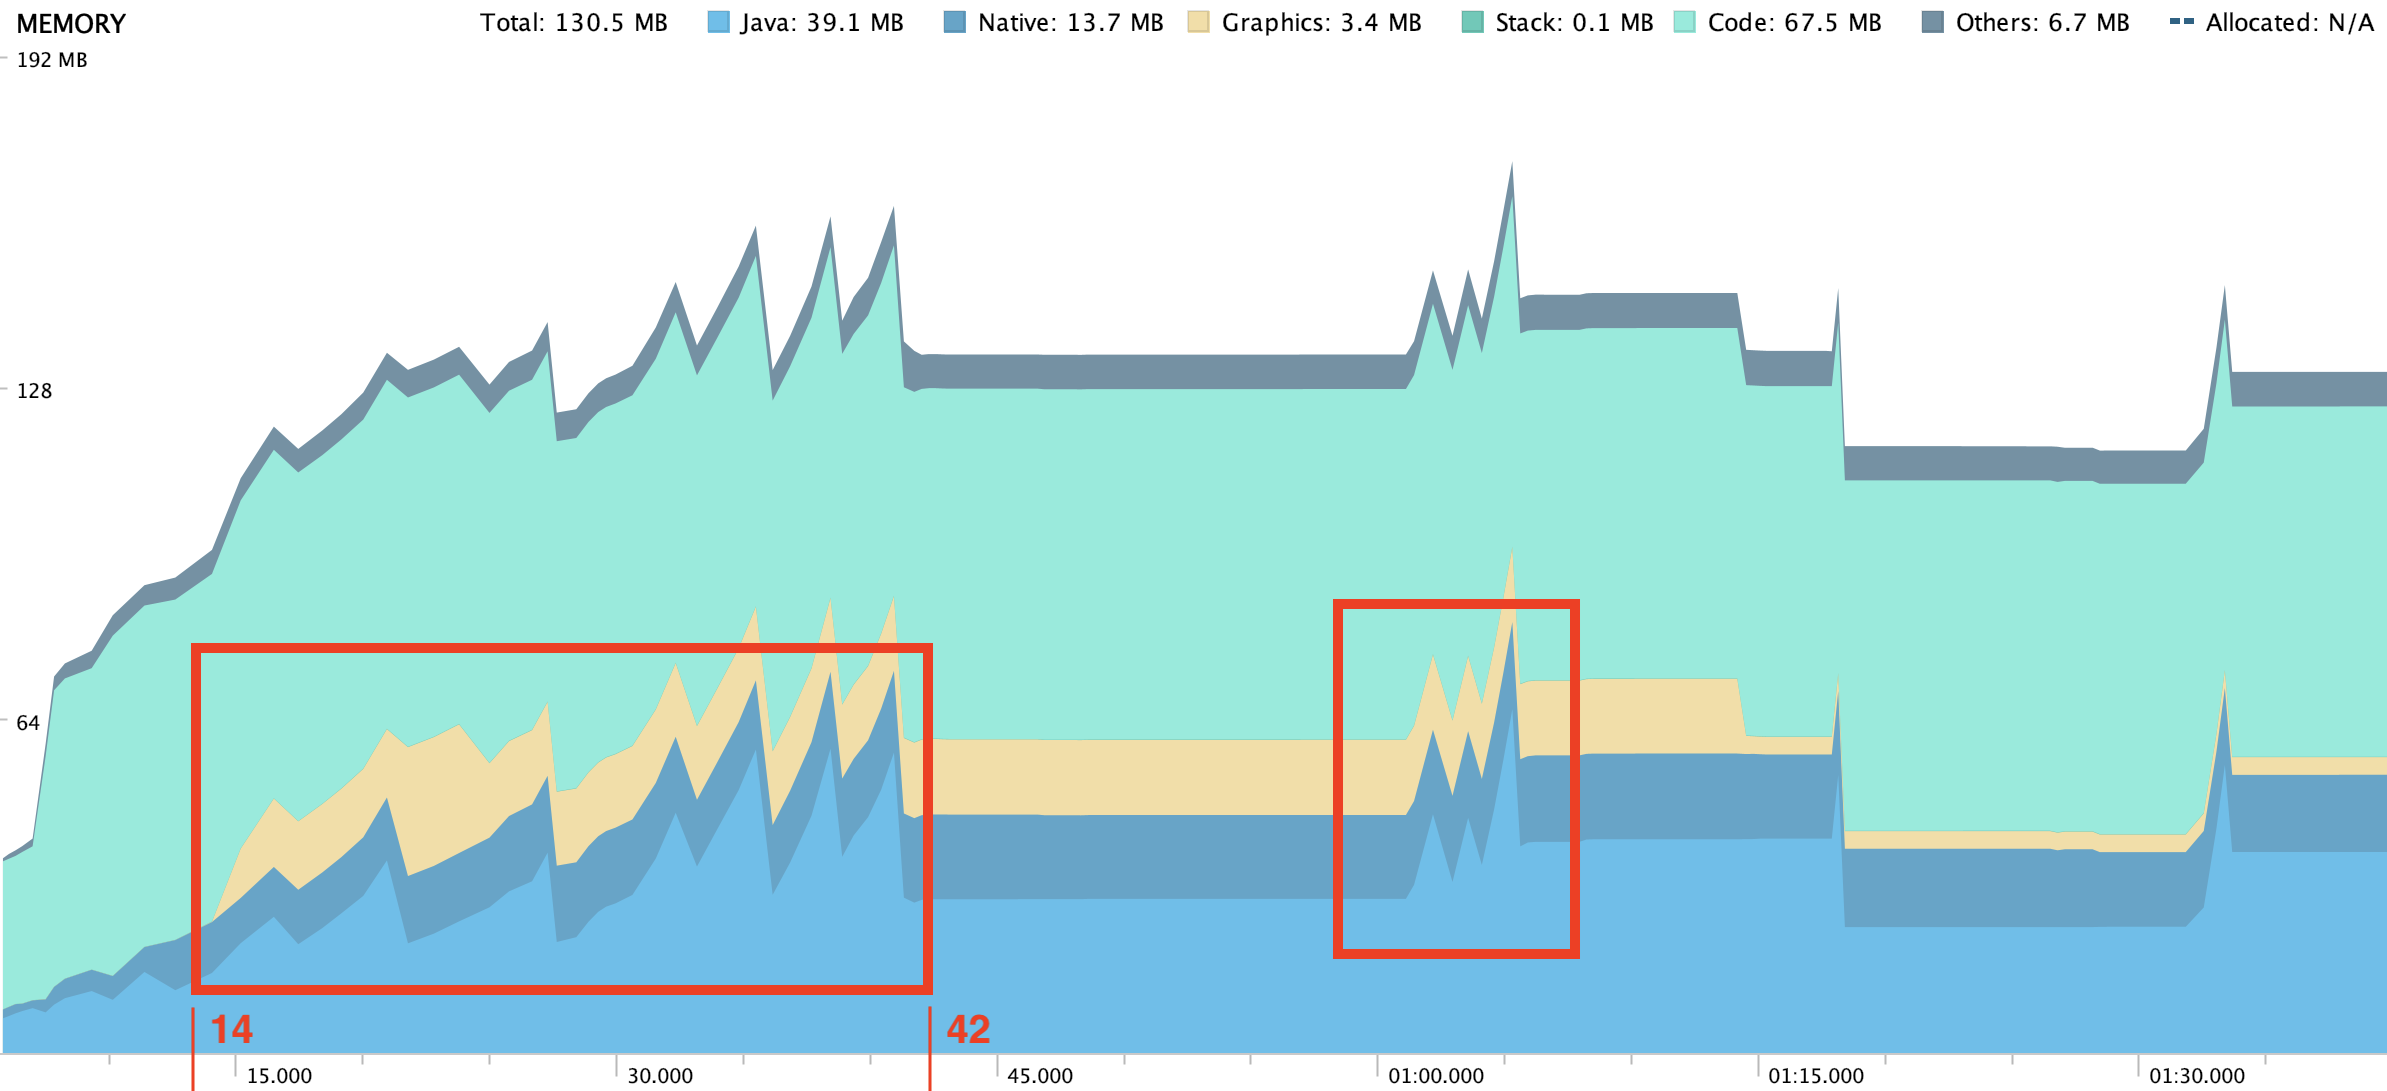
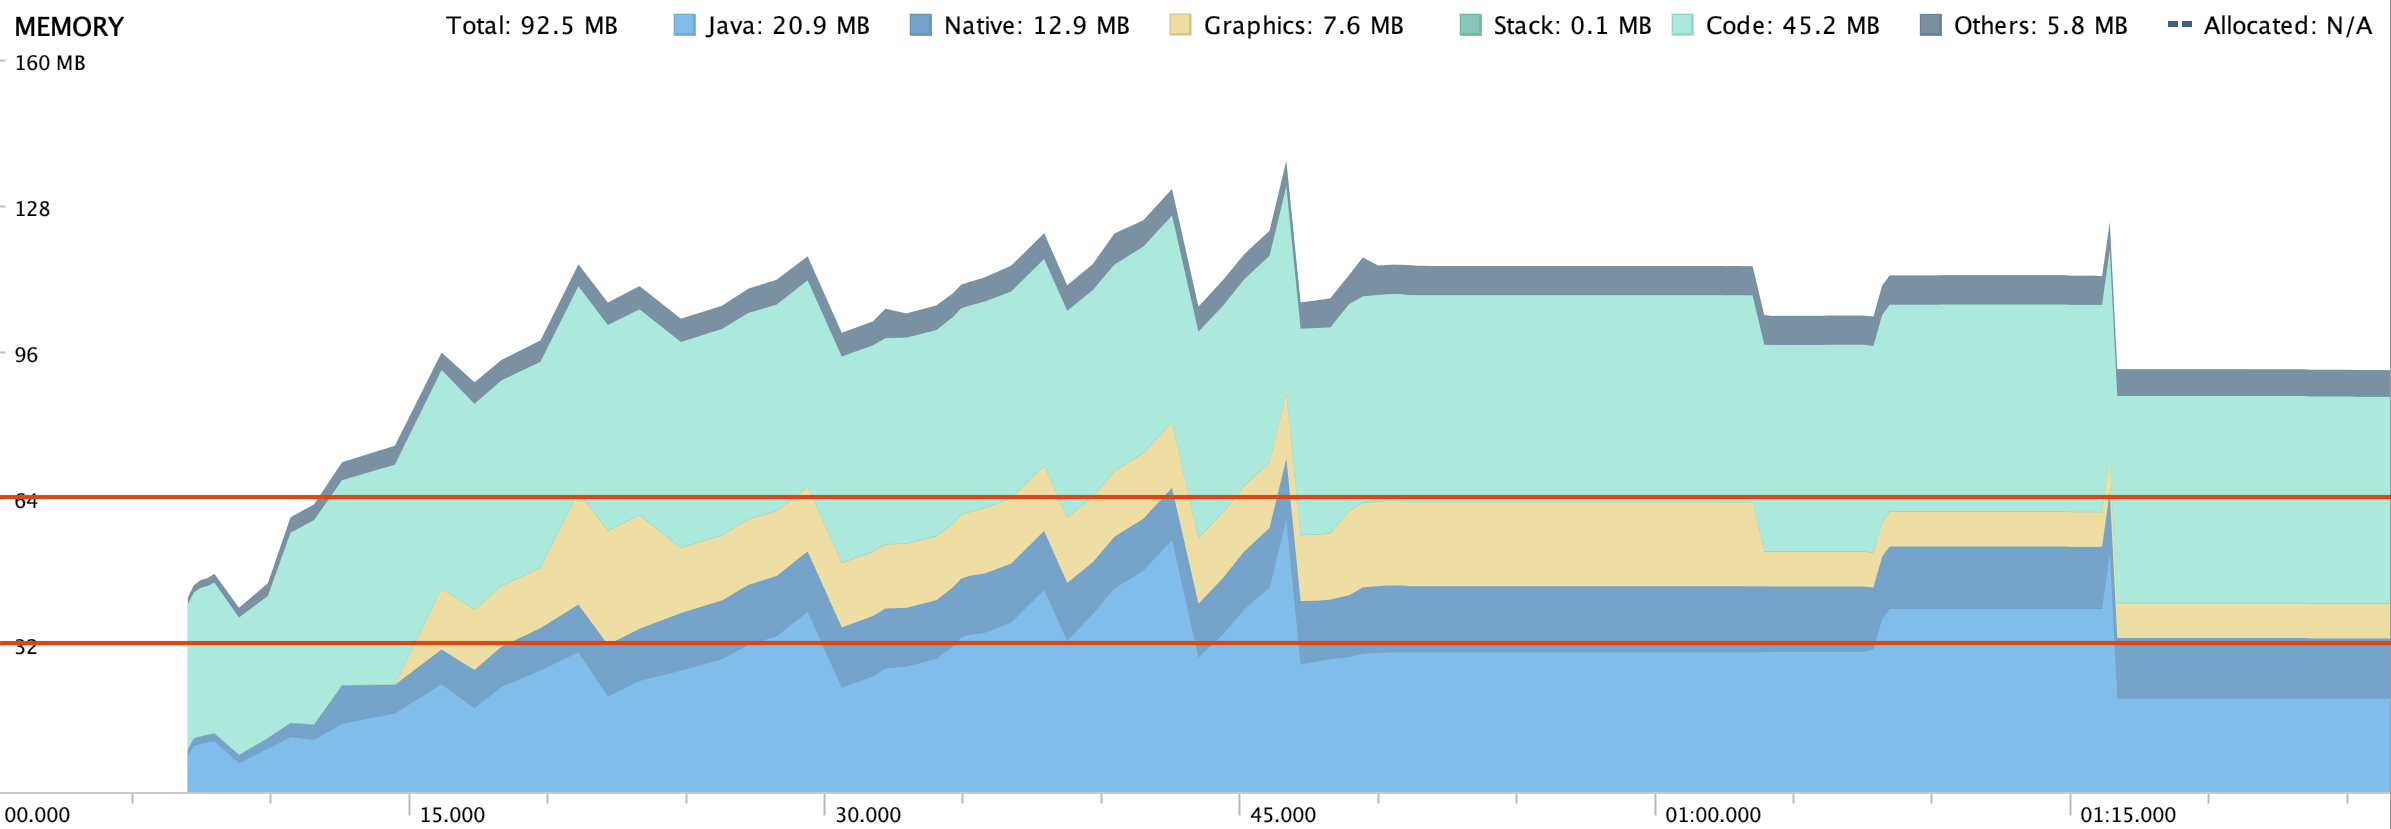
New images.

diff --git a/_drafts/_prepost/2019-01-01-android_performence.md b/_drafts/_prepost/2019-01-01-android_performence.md
@@ -1,23 +1,33 @@
 ---
 layout:     post
-title:      ""
-subtitle:   ""
-date:       2019-01-01
+title:      "削减启动过程内存开销"
+date:       2019-03-08
 author:     "phantomVK"
 header-img: "img/bg/post_bg.jpg"
 catalog:    true
 tags:
-    - tags
+    - Android
 ---
 
-Proguard
+下图是 __Android Studio__ 3.5.1的 Android Profiler测量工具：
 
-- [zipalign](https://developer.android.com/studio/command-line/zipalign.html?hl=zh-cn)
+![android_profiler](../../img/android/performance/android_profiler.png)
 
+主要有以下重要参数：
 
+- Total：所有内存的总价，包括虚拟机堆内存、堆外内存、显示缓存、栈内存等等；
+- Java：DVM/ART虚拟机运行时占用堆内存；
+- Native：Native层的.so的malloc或new创建的内存；
+- Graphics：OpenGL和SurfaceFlinger内存；
+- Stack：线程栈内存；
+- Code：内存保存Dex和so的大小；
+- Other：不知道怎么算的内存占用；
+
+不同系统版本获取还有其他额外的数据可以参考，但上面是基本几乎所有版本都能提供的。
+
+一般来说，上面从上到下的顺序就是开发处理的难度技术，从Java开始难度逐渐提升。不同的用户场景各部分内存占用比例也不一样，要对比优化前后的效果要在同一场景下进行。
 
 #### ARouter
-![arouter_postcard](../../img/android/performance/arouter_postcard.png)
 
 ```java
 class RoomSummaryComparator : Comparator<RoomSummary> {
@@ -60,7 +70,7 @@ class RoomSummaryComparator : Comparator<RoomSummary> {
 }
 ```
 
-根据 __ARouter__ 的实现，每次经过 __ARouter__ 的实现获取服务的对象引用，
+根据 __ARouter__ 的实现，每次经过 __ARouter__ 的实现获取服务的对象引用
 
 ```kotlin
 class RoomSummaryComparator : Comparator<RoomSummary> {
@@ -68,12 +78,16 @@ class RoomSummaryComparator : Comparator<RoomSummary> {
     private val messageCache = ServiceFactory.getInstance()
             .sessionManager
             .defaultLatestChatMessageCache
-      
+
     override fun compare(lSummary: RoomSummary?, rSummary: RoomSummary?): Int {
         ....
     }
 }
 ```
+
+房间列表排序过程，累计对 __ARouter__ 调用高达3.6万次，每次调用都会创建新的 __PostCard__ 实例，累计浅内存使用2MB。
+
+![arouter_postcard](../../img/android/performance/arouter_postcard_larger.png)
 
 #### 堆栈跟踪开销
 
@@ -390,7 +404,7 @@ class RoomTopic(private val topicString: String?) {
 
 #### 重复创建实例 
 
-按照测试时账号有307个Room实例计算，每个gson实例的引用占用4B(4B是32位，64为是8B)，实例本身占用654B，一次优化剩下197K的内存。
+__Room__ 对象包含一个 __Gson__ 实例，用于处理 __Json__ 序列化操作：
 
 ```java
 public class Room {
@@ -398,11 +412,23 @@ public class Room {
 }
 ```
 
+但根据 [API文档](https://javadoc.io/doc/com.google.code.gson/gson/2.8.0/com/google/gson/Gson.html) 可知 __Gson__ 本身是线程安全，完全没必要每个 __Room__ 对象持有各自 __Gson__ 实例
+
+> Gson instances are Thread-safe so you can reuse them freely across multiple threads.
+
+所以让所有 __Room__ 共享同一个常量实例：
+
 ```java
 public class Room {
     private static final Gson gson = new GsonBuilder().create();
 }
 ```
+
+按照测试账号有307个 __Room__ 实例，每个 __Gson__ 实例的引用占用4B(32位是4B，64位是8B)，实例本身至少654B，此优化节省内存197KB。
+
+![gson_instance_retained_size](../../img/android/performance/gson_instance_retained_size.png)
+
+
 
 #### try resource
 
@@ -447,5 +473,137 @@ com.finogeeks.finochatapp D/StrictMode: StrictMode policy violation; ~duration=1
         at com.finogeeks.finochat.widget.ImageViewer.load(ImageViewer.kt:71)
         at com.finogeeks.finochatmessage.chat.adapter.ImageVideoViewerAdapter.loadImage(ImageVideoViewerAdapter.kt:162)
         at com.finogeeks.finochatmessage.chat.adapter.ImageVideoViewerAdapter.instantiateItem(ImageVideoViewerAdapter.kt:138)
+```
+
+![dump_size_compare](../../img/android/performance/dump_size_compare.png)
+
+#### 监听器泄漏
+
+![leak_MediaContentObserver](../../img/android/performance/leak_MediaContentObserver.png)
+
+```java
+public class ScreenShotListenManager {
+
+    private MediaContentObserver mInternalObserver;
+    private MediaContentObserver mExternalObserver;
+    private final Handler mUiHandler = new Handler(Looper.getMainLooper());
+
+    public void startListen() {
+        assertInMainThread();
+
+        // 记录开始监听的时间戳
+        mStartListenTime = System.currentTimeMillis();
+
+        // 创建内容观察者
+        mInternalObserver = new MediaContentObserver(MediaStore.Images.Media.INTERNAL_CONTENT_URI, mUiHandler);
+        mExternalObserver = new MediaContentObserver(MediaStore.Images.Media.EXTERNAL_CONTENT_URI, mUiHandler);
+
+        // 注册内容观察者
+        mContext.getApplicationContext()
+                .getContentResolver()
+                .registerContentObserver(
+                        MediaStore.Images.Media.INTERNAL_CONTENT_URI,
+                        false,
+                        mInternalObserver);
+
+        mContext.getApplicationContext()
+                .getContentResolver()
+                .registerContentObserver(
+                        MediaStore.Images.Media.EXTERNAL_CONTENT_URI,
+                        false,
+                        mExternalObserver);
+    }
+    /**
+     * 停止监听，注销内容观察者
+     */
+    public void stopListen() {
+        assertInMainThread();
+
+        if (mInternalObserver != null) {
+            try {
+                mContext.getApplicationContext()
+                        .getContentResolver()
+                        .unregisterContentObserver(mInternalObserver);
+            } catch (Exception e) {
+                e.printStackTrace();
+            } finally {
+                mInternalObserver = null;
+            }
+        }
+
+        if (mExternalObserver != null) {
+            try {
+                mContext.getApplicationContext()
+                        .getContentResolver()
+                        .unregisterContentObserver(mExternalObserver);
+            } catch (Exception e) {
+                e.printStackTrace();
+            } finally {
+                mExternalObserver = null;
+            }
+        }
+
+        // 清空数据
+        mStartListenTime = 0;
+
+        // 必须设置mListener为空，因为mListener会隐式持有Activity
+        mListener = null;
+    }
+}
+```
+
+```java
+private class MediaContentObserver extends ContentObserver {
+
+    private Uri mContentUri;
+
+    MediaContentObserver(Uri contentUri, Handler handler) {
+        super(handler);
+        mContentUri = contentUri;
+    }
+
+    @Override
+    public void onChange(boolean selfChange) {
+        super.onChange(selfChange);
+        handleMediaContentChange(mContentUri);
+    }
+}
+```
+
+```java
+@Override
+protected void onResume() {
+    super.onResume();
+    if (mManager != null) {
+        mManager.startListen();
+    }
+}
+
+@Override
+protected void onDestroy() {   
+    super.onDestroy();
+    if (mManager != null) {
+        mManager.stopListen();
+        mManager = null;
+    }
+}
+```
+
+```java
+@Override
+protected void onResume() {
+    super.onResume();
+    if (mManager != null) {
+        mManager.startListen();
+    }
+}
+
+@Override
+protected void onPause() {
+    super.onPause();
+    if (mManager != null) {
+        mManager.stopListen();
+    }
+}
 ```
 
